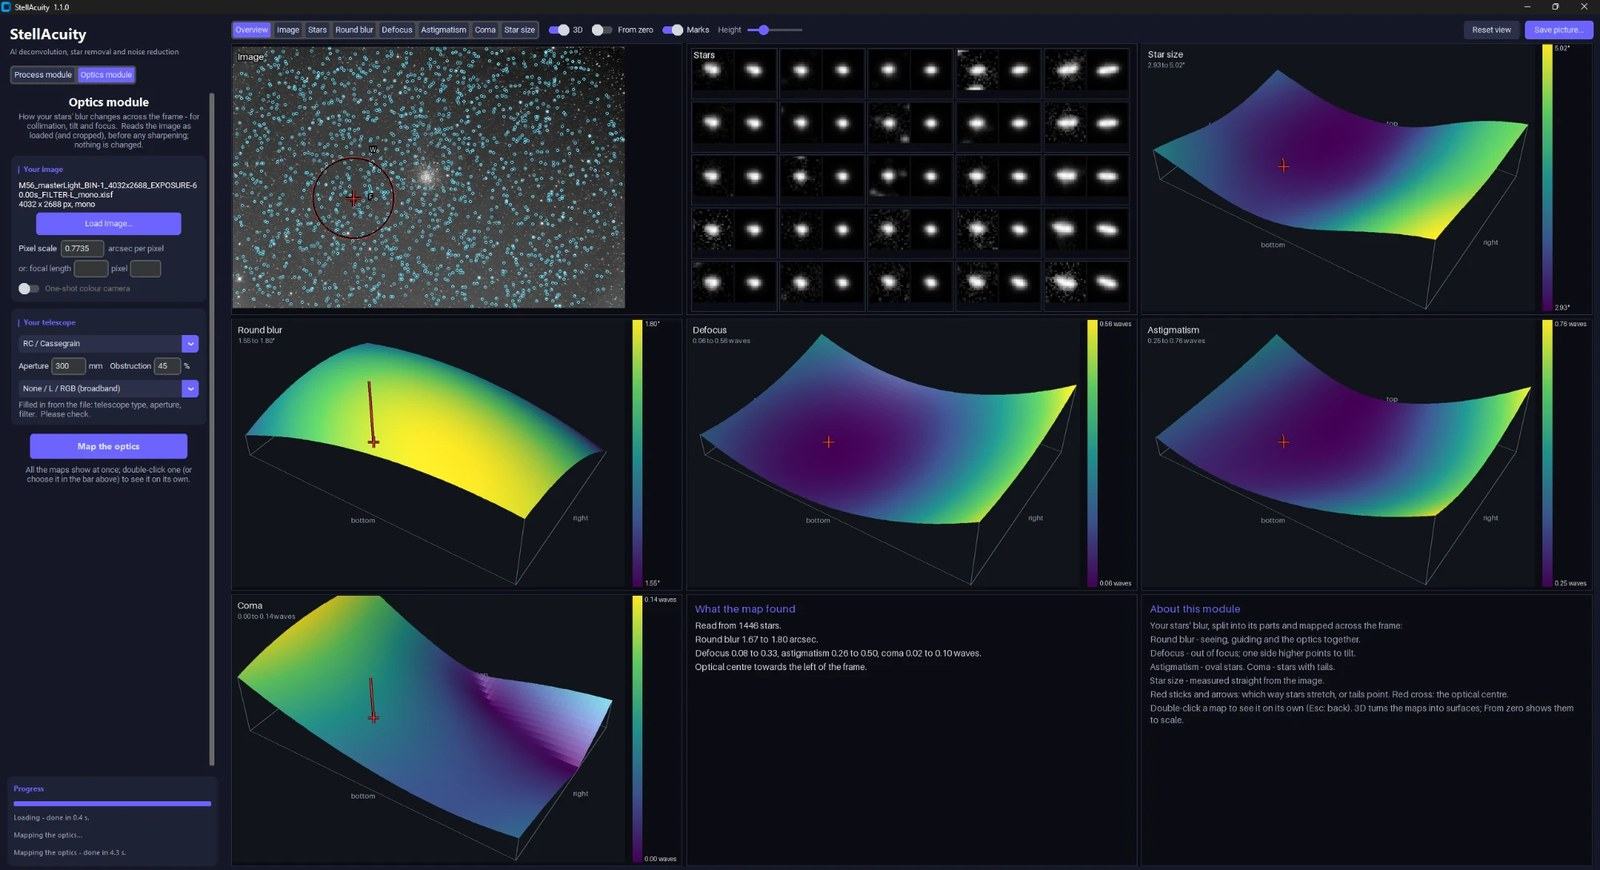
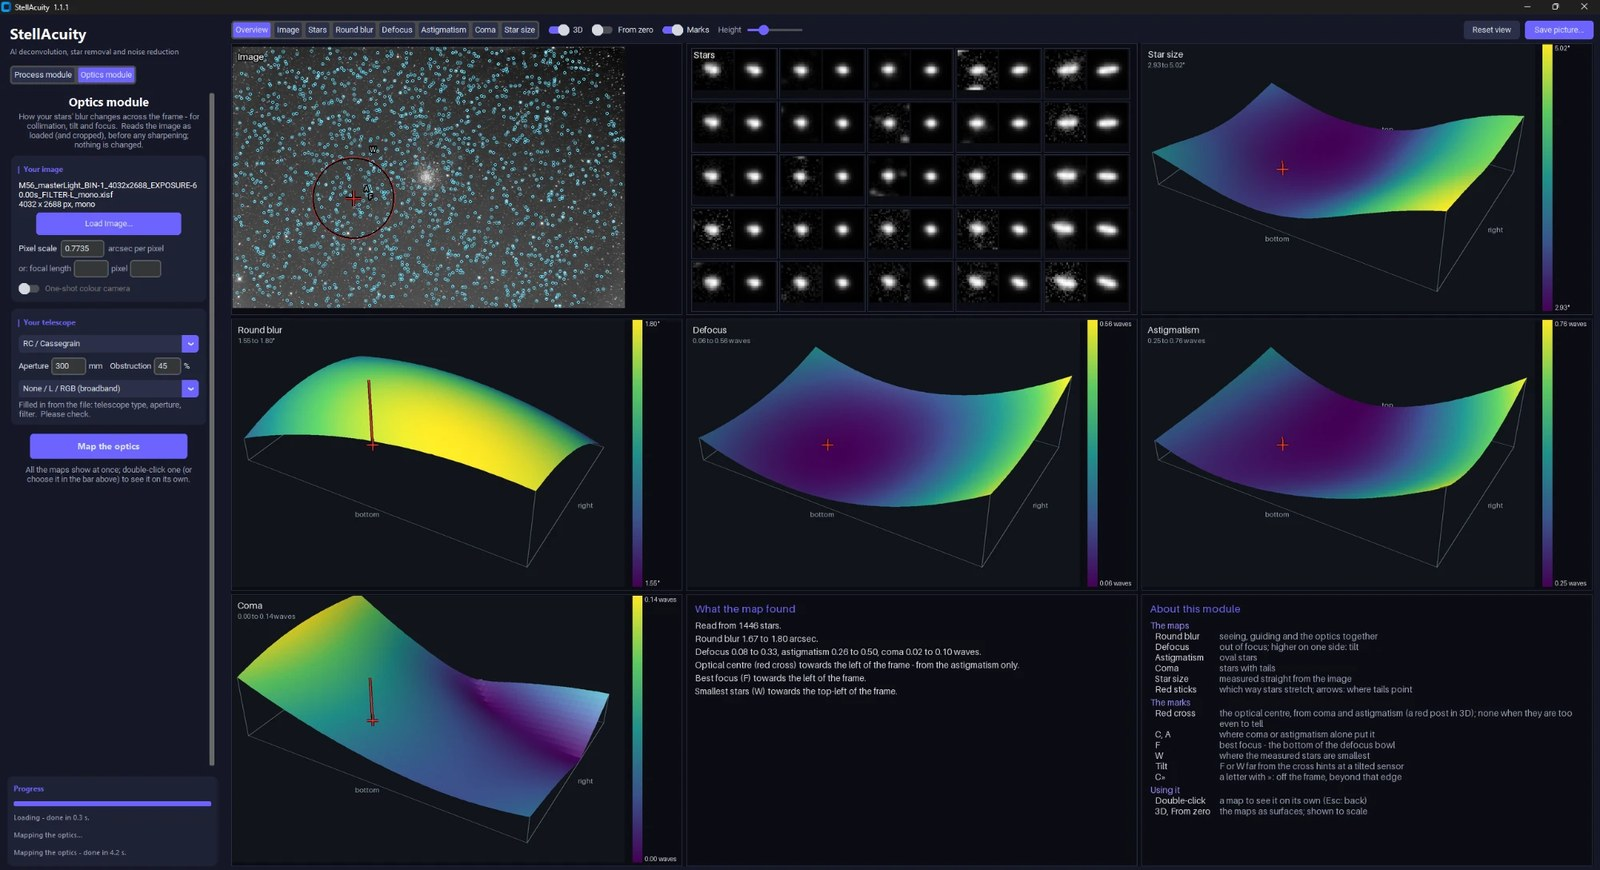
Optics module pictures with the new key to the marks

diff --git a/index.html b/index.html
@@ -166,8 +166,8 @@
       <figure><img class="hero-shot" src="images/program_process.jpg?v=1.1" fetchpriority="high" width="1600" height="1019"
                    alt="StellAcuity's Process mode: the six steps beside a colour nebula image">
         <figcaption><b>Process module</b> - sharpen, remove stars, reduce noise</figcaption></figure>
-      <figure><img class="hero-shot" src="images/program_optics.jpg?v=1.2" fetchpriority="high" width="1400" height="892"
-                   data-turning="images/program_optics_turning.webp?v=1.0"
+      <figure><img class="hero-shot" src="images/program_optics.jpg?v=1.3" fetchpriority="high" width="1400" height="892"
+                   data-turning="images/program_optics_turning.webp?v=1.1"
                    alt="StellAcuity's Optics module: every map of a star cluster's optics at once, in 3D, turning">
         <figcaption><b>Optics module</b> - your optics, mapped</figcaption></figure>
     </div>
@@ -324,10 +324,10 @@
       tell StellAcuity about your telescope, and press <b>Map the optics</b>: a few seconds later every map is on screen at once.
       Nothing in your image is changed.</p>
     <div class="hero-shots wide">
-      <figure><img class="shot" src="images/optics_window_2d.jpg?v=1.2" loading="lazy" width="1600" height="870"
+      <figure><img class="shot" src="images/optics_window_2d.jpg?v=1.3" loading="lazy" width="1600" height="870"
                    alt="The Optics module: every map of a star cluster at once as colour plots, with the optical centre marked">
         <figcaption><b>Colour plots</b> - every map at once</figcaption></figure>
-      <figure><img class="shot" src="images/optics_window_3d.jpg?v=1.2" loading="lazy" width="1600" height="870"
+      <figure><img class="shot" src="images/optics_window_3d.jpg?v=1.3" loading="lazy" width="1600" height="870"
                    alt="The Optics module: the same maps as 3D surfaces">
         <figcaption><b>3D surfaces</b> - the same maps, to turn and tilt</figcaption></figure>
     </div>
